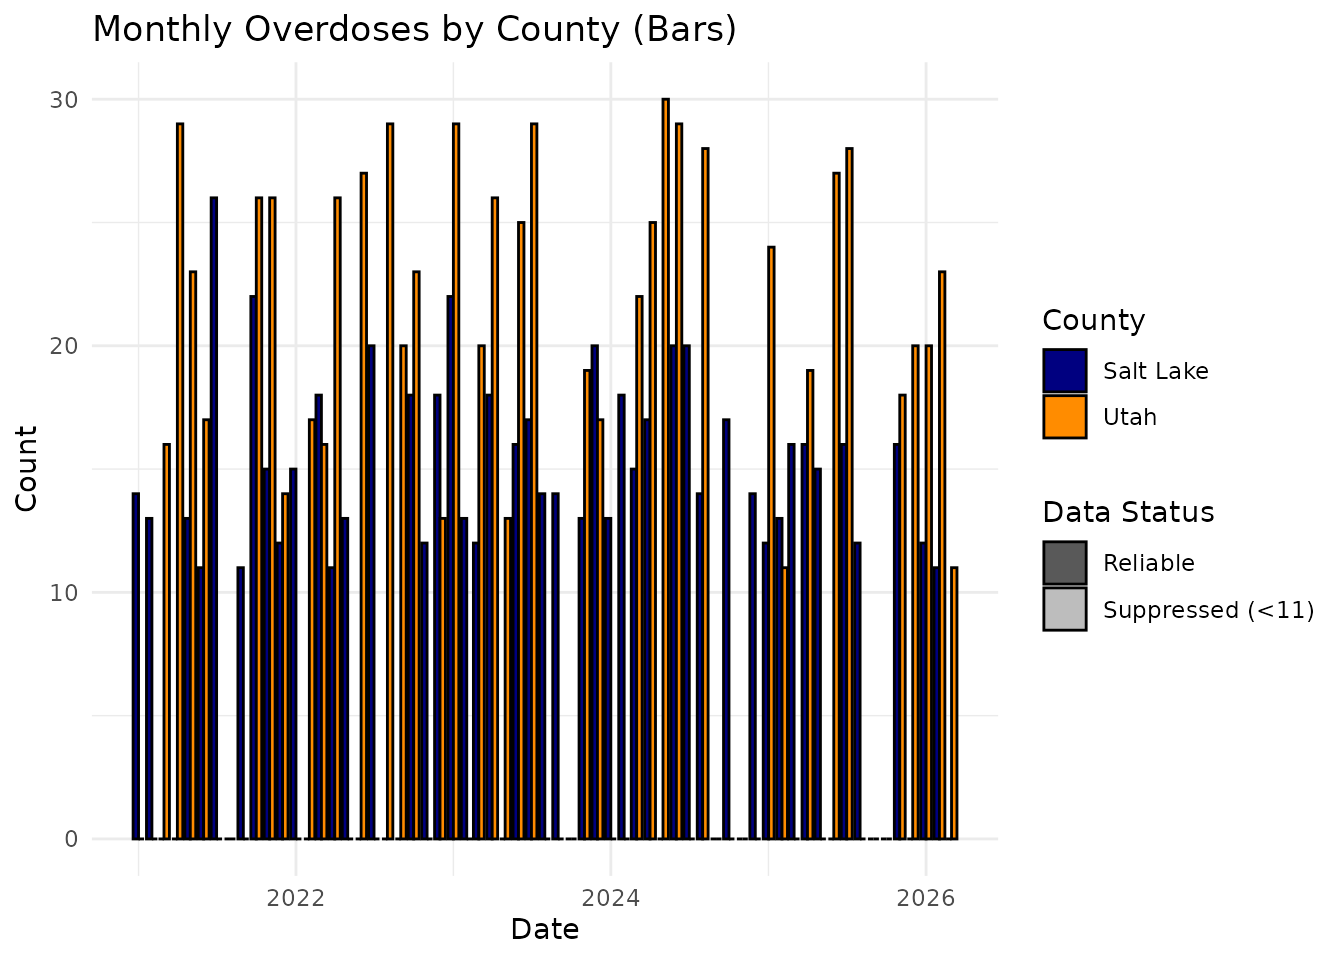
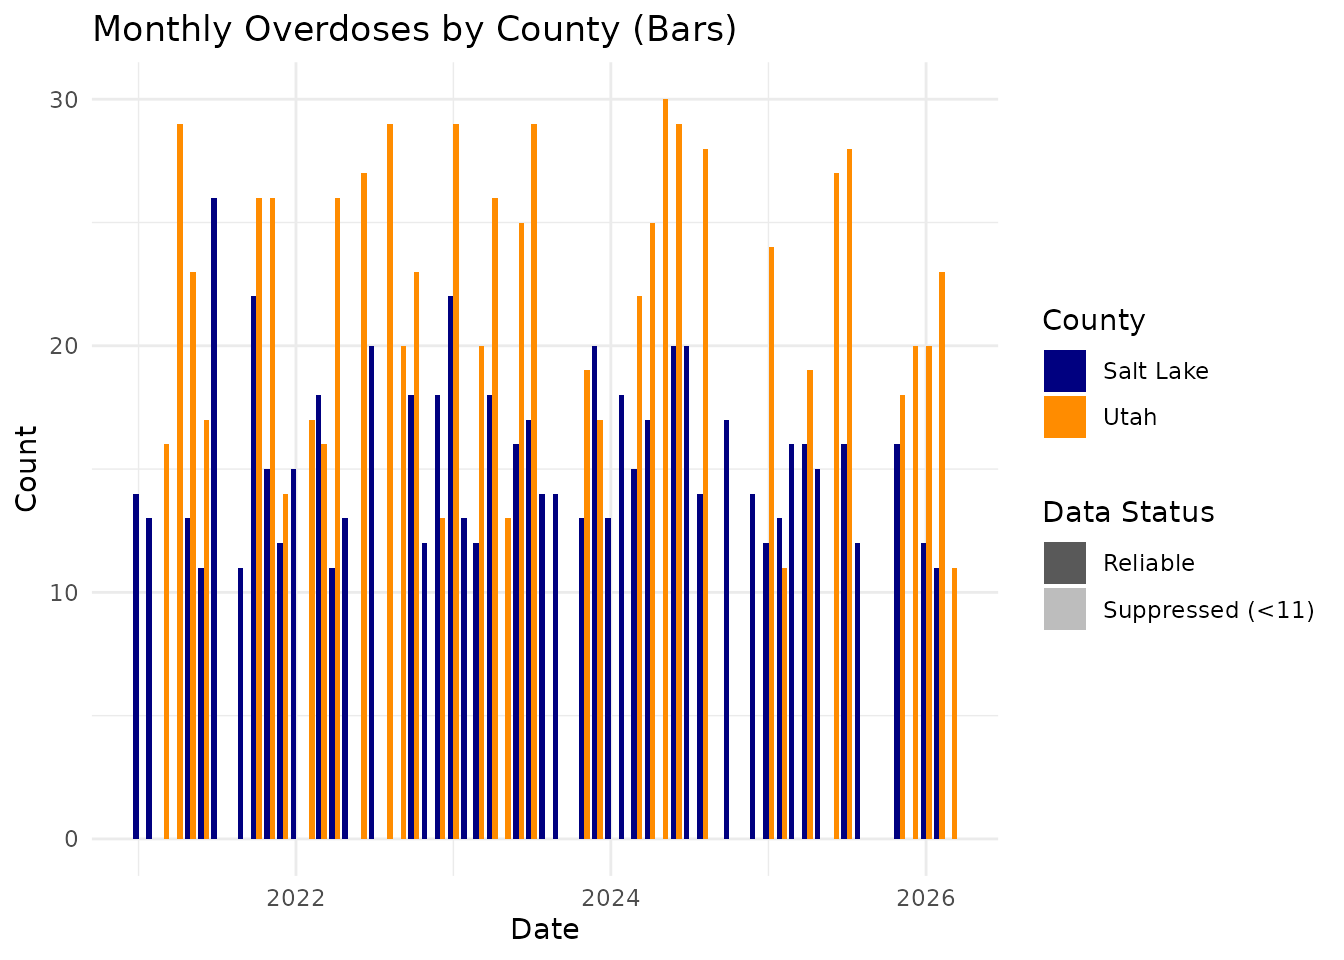
Deploying to gh-pages from @ peernisse/ggsuppress@9bc0106b505a11698ce326b7af6b56fcffbd21e9 🚀

diff --git a/reference/overdoses.html b/reference/overdoses.html
@@ -1,5 +1,5 @@
 <!DOCTYPE html>
-<!-- Generated by pkgdown: do not edit by hand --><html lang="en"><head><meta charset="UTF-8"><meta http-equiv="X-UA-Compatible" content="IE=edge"><meta name="viewport" content="width=device-width, initial-scale=1, shrink-to-fit=no"><title>Monthly Overdoses in Utah and Salt Lake Counties — overdoses • ggsuppress</title><script src="../deps/jquery-3.6.0/jquery-3.6.0.min.js"></script><meta name="viewport" content="width=device-width, initial-scale=1, shrink-to-fit=no"><link href="../deps/bootstrap-5.3.8/bootstrap.min.css" rel="stylesheet"><script src="../deps/bootstrap-5.3.8/bootstrap.bundle.min.js"></script><link href="../deps/font-awesome-6.5.2/css/all.min.css" rel="stylesheet"><link href="../deps/font-awesome-6.5.2/css/v4-shims.min.css" rel="stylesheet"><script src="../deps/headroom-0.11.0/headroom.min.js"></script><script src="../deps/headroom-0.11.0/jQuery.headroom.min.js"></script><script src="../deps/bootstrap-toc-1.0.1/bootstrap-toc.min.js"></script><script src="../deps/clipboard.js-2.0.11/clipboard.min.js"></script><script src="../deps/search-1.0.0/autocomplete.jquery.min.js"></script><script src="../deps/search-1.0.0/fuse.min.js"></script><script src="../deps/search-1.0.0/mark.min.js"></script><!-- pkgdown --><script src="../pkgdown.js"></script><meta property="og:title" content="Monthly Overdoses in Utah and Salt Lake Counties — overdoses"><meta name="description" content="A dataset demonstrating monthly overdose counts to be used
+<!-- Generated by pkgdown: do not edit by hand --><html lang="en"><head><meta charset="UTF-8"><meta http-equiv="X-UA-Compatible" content="IE=edge"><meta name="viewport" content="width=device-width, initial-scale=1, shrink-to-fit=no"><title>Monthly Overdoses in Two Counties — overdoses • ggsuppress</title><script src="../deps/jquery-3.6.0/jquery-3.6.0.min.js"></script><meta name="viewport" content="width=device-width, initial-scale=1, shrink-to-fit=no"><link href="../deps/bootstrap-5.3.8/bootstrap.min.css" rel="stylesheet"><script src="../deps/bootstrap-5.3.8/bootstrap.bundle.min.js"></script><link href="../deps/font-awesome-6.5.2/css/all.min.css" rel="stylesheet"><link href="../deps/font-awesome-6.5.2/css/v4-shims.min.css" rel="stylesheet"><script src="../deps/headroom-0.11.0/headroom.min.js"></script><script src="../deps/headroom-0.11.0/jQuery.headroom.min.js"></script><script src="../deps/bootstrap-toc-1.0.1/bootstrap-toc.min.js"></script><script src="../deps/clipboard.js-2.0.11/clipboard.min.js"></script><script src="../deps/search-1.0.0/autocomplete.jquery.min.js"></script><script src="../deps/search-1.0.0/fuse.min.js"></script><script src="../deps/search-1.0.0/mark.min.js"></script><!-- pkgdown --><script src="../pkgdown.js"></script><meta property="og:title" content="Monthly Overdoses in Two Counties — overdoses"><meta name="description" content="A dataset demonstrating monthly overdose counts to be used
 for testing and visualizing small-number suppression in public health reporting."><meta property="og:description" content="A dataset demonstrating monthly overdose counts to be used
 for testing and visualizing small-number suppression in public health reporting."></head><body>
     <a href="#main" class="visually-hidden-focusable">Skip to contents</a>
@@ -34,7 +34,7 @@ for testing and visualizing small-number suppression in public health reporting.
 <div class="row">
   <main id="main" class="col-md-9"><div class="page-header">
 
-      <h1>Monthly Overdoses in Utah and Salt Lake Counties</h1>
+      <h1>Monthly Overdoses in Two Counties</h1>
       <small class="dont-index">Source: <a href="https://github.com/peernisse/ggsuppress/blob/main/R/data.R" class="external-link"><code>R/data.R</code></a></small>
       <div class="d-none name"><code>overdoses.Rd</code></div>
     </div>
@@ -52,7 +52,7 @@ for testing and visualizing small-number suppression in public health reporting.
     <div class="section level2">
     <h2 id="format">Format<a class="anchor" aria-label="anchor" href="#format"></a></h2>
     <p>A data frame with 40 rows and 3 variables:</p><dl><dt>county</dt>
-<dd><p>Name of the county, either Salt Lake or Utah</p></dd>
+<dd><p>Name of the county</p></dd>
 
 <dt>month_date</dt>
 <dd><p>Date object representing the first day of the reporting month</p></dd>

diff --git a/index.html b/index.html
@@ -62,7 +62,7 @@
 </h2>
 <p>You can install the development version of ggsuppress like so:</p>
 <div class="sourceCode" id="cb1"><pre class="downlit sourceCode r">
-<code class="sourceCode R"><span><span class="co"># devtools::install_github("peernisse/ggsuppress")</span></span></code></pre></div>
+<code class="sourceCode R"><span><span class="fu">devtools</span><span class="fu">::</span><span class="fu">install_github</span><span class="op">(</span><span class="st">"peernisse/ggsuppress"</span><span class="op">)</span></span></code></pre></div>
 </div>
 <div class="section level2">
 <h2 id="example-small-number-suppression">Example Small Number Suppression<a class="anchor" aria-label="anchor" href="#example-small-number-suppression"></a>
@@ -99,6 +99,19 @@
 <span>  <span class="fu"><a href="https://ggplot2.tidyverse.org/reference/ggtheme.html" class="external-link">theme_minimal</a></span><span class="op">(</span><span class="op">)</span> <span class="op">+</span></span>
 <span>  <span class="fu"><a href="https://ggplot2.tidyverse.org/reference/labs.html" class="external-link">labs</a></span><span class="op">(</span>title <span class="op">=</span> <span class="st">"Groundwater Results through Time"</span>, x <span class="op">=</span> <span class="st">"Date"</span>, y <span class="op">=</span> <span class="st">"Concentration (mg/L)"</span><span class="op">)</span></span></code></pre></div>
 <p><img src="reference/figures/README-example_non_detect-1.png" width="100%"></p>
+</div>
+<div class="section level2">
+<h2 id="example-column-chart-small-number-suppression">Example Column Chart Small Number Suppression<a class="anchor" aria-label="anchor" href="#example-column-chart-small-number-suppression"></a>
+</h2>
+<p>Column charts with samll number suppression can be achieved with the <code><a href="reference/geom_suppress.html">geom_col_suppressed()</a></code> with the data status represented by the column fill alpha value.</p>
+<div class="sourceCode" id="cb4"><pre class="downlit sourceCode r">
+<code class="sourceCode R"><span></span>
+<span><span class="fu"><a href="https://ggplot2.tidyverse.org/reference/ggplot.html" class="external-link">ggplot</a></span><span class="op">(</span><span class="va">overdoses</span>, <span class="fu"><a href="https://ggplot2.tidyverse.org/reference/aes.html" class="external-link">aes</a></span><span class="op">(</span>x <span class="op">=</span> <span class="va">month_date</span>, y <span class="op">=</span> <span class="va">count</span>, fill <span class="op">=</span> <span class="va">county</span><span class="op">)</span><span class="op">)</span> <span class="op">+</span></span>
+<span>  <span class="fu"><a href="reference/geom_suppress.html">geom_col_suppressed</a></span><span class="op">(</span>position <span class="op">=</span> <span class="st">'dodge'</span>, proxy_value <span class="op">=</span> <span class="fl">1</span><span class="op">)</span> <span class="op">+</span></span>
+<span>  <span class="fu"><a href="reference/scale_suppress.html">scale_alpha_suppress</a></span><span class="op">(</span><span class="op">)</span> <span class="op">+</span></span>
+<span>  <span class="fu"><a href="https://ggplot2.tidyverse.org/reference/ggtheme.html" class="external-link">theme_minimal</a></span><span class="op">(</span><span class="op">)</span> <span class="op">+</span></span>
+<span>  <span class="fu"><a href="https://ggplot2.tidyverse.org/reference/labs.html" class="external-link">labs</a></span><span class="op">(</span>title <span class="op">=</span> <span class="st">"Monthly Overdoses by County"</span>, x <span class="op">=</span> <span class="st">"Date"</span>, y <span class="op">=</span> <span class="st">"Count"</span><span class="op">)</span></span></code></pre></div>
+<p><img src="reference/figures/README-example_columns-1.png" width="100%"></p>
 </div>
 </div>
   </main><aside class="col-md-3"><div class="links">

diff --git a/articles/small-number-suppression.html b/articles/small-number-suppression.html
@@ -175,7 +175,7 @@ to make the suppressed bars semi-transparent.</p>
 <code class="sourceCode R"><span><span class="fu"><a href="https://ggplot2.tidyverse.org/reference/ggplot.html" class="external-link">ggplot</a></span><span class="op">(</span><span class="va">overdoses</span>, <span class="fu"><a href="https://ggplot2.tidyverse.org/reference/aes.html" class="external-link">aes</a></span><span class="op">(</span>x <span class="op">=</span> <span class="va">month_date</span>, y <span class="op">=</span> <span class="va">count</span>, fill <span class="op">=</span> <span class="va">county</span><span class="op">)</span><span class="op">)</span> <span class="op">+</span></span>
 <span>  </span>
 <span>  <span class="co"># position = "dodge" places the county bars side-by-side</span></span>
-<span>  <span class="fu"><a href="../reference/geom_suppress.html">geom_col_suppressed</a></span><span class="op">(</span>position <span class="op">=</span> <span class="st">"dodge"</span>, color <span class="op">=</span> <span class="st">"black"</span><span class="op">)</span> <span class="op">+</span> </span>
+<span>  <span class="fu"><a href="../reference/geom_suppress.html">geom_col_suppressed</a></span><span class="op">(</span>position <span class="op">=</span> <span class="st">"dodge"</span><span class="op">)</span> <span class="op">+</span> </span>
 <span>  </span>
 <span>  <span class="fu"><a href="https://ggplot2.tidyverse.org/reference/scale_manual.html" class="external-link">scale_fill_manual</a></span><span class="op">(</span></span>
 <span>    name <span class="op">=</span> <span class="st">"County"</span>,</span>

diff --git a/reference/index.html b/reference/index.html
@@ -64,7 +64,7 @@
           <code><a href="overdoses.html">overdoses</a></code>
 
         </dt>
-        <dd>Monthly Overdoses in Utah and Salt Lake Counties</dd>
+        <dd>Monthly Overdoses in Two Counties</dd>
 
         <dt>
 

diff --git a/index.md b/index.md
@@ -12,7 +12,7 @@ You can install the development version of ggsuppress like so:
 
 ``` r
 
-# devtools::install_github("peernisse/ggsuppress")
+devtools::install_github("peernisse/ggsuppress")
 ```
 
 ## Example Small Number Suppression
@@ -61,3 +61,21 @@ ggplot(groundwater, aes(x = Sample_Date, y = Numeric_Result, color = Parameter))
 ```
 
 ![](reference/figures/README-example_non_detect-1.png)
+
+## Example Column Chart Small Number Suppression
+
+Column charts with samll number suppression can be achieved with the
+[`geom_col_suppressed()`](https://peernisse.github.io/ggsuppress/reference/geom_suppress.md)
+with the data status represented by the column fill alpha value.
+
+``` r
+
+
+ggplot(overdoses, aes(x = month_date, y = count, fill = county)) +
+  geom_col_suppressed(position = 'dodge', proxy_value = 1) +
+  scale_alpha_suppress() +
+  theme_minimal() +
+  labs(title = "Monthly Overdoses by County", x = "Date", y = "Count")
+```
+
+![](reference/figures/README-example_columns-1.png)

diff --git a/reference/index.md b/reference/index.md
@@ -9,7 +9,7 @@
 - [`groundwater`](https://peernisse.github.io/ggsuppress/reference/groundwater.md)
   : Mock Groundwater Monitoring Dataset
 - [`overdoses`](https://peernisse.github.io/ggsuppress/reference/overdoses.md)
-  : Monthly Overdoses in Utah and Salt Lake Counties
+  : Monthly Overdoses in Two Counties
 - [`scale_shape_suppress()`](https://peernisse.github.io/ggsuppress/reference/scale_suppress.md)
   [`scale_alpha_suppress()`](https://peernisse.github.io/ggsuppress/reference/scale_suppress.md)
   [`scale_color_suppress()`](https://peernisse.github.io/ggsuppress/reference/scale_suppress.md)

diff --git a/reference/overdoses.md b/reference/overdoses.md
@@ -1,4 +1,4 @@
-# Monthly Overdoses in Utah and Salt Lake Counties
+# Monthly Overdoses in Two Counties
 
 A dataset demonstrating monthly overdose counts to be used for testing
 and visualizing small-number suppression in public health reporting.
@@ -15,7 +15,7 @@ A data frame with 40 rows and 3 variables:
 
 - county:
 
-  Name of the county, either Salt Lake or Utah
+  Name of the county
 
 - month_date:
 

diff --git a/articles/small-number-suppression.md b/articles/small-number-suppression.md
@@ -126,7 +126,7 @@ to make the suppressed bars semi-transparent.
 ggplot(overdoses, aes(x = month_date, y = count, fill = county)) +
   
   # position = "dodge" places the county bars side-by-side
-  geom_col_suppressed(position = "dodge", color = "black") + 
+  geom_col_suppressed(position = "dodge") + 
   
   scale_fill_manual(
     name = "County",
